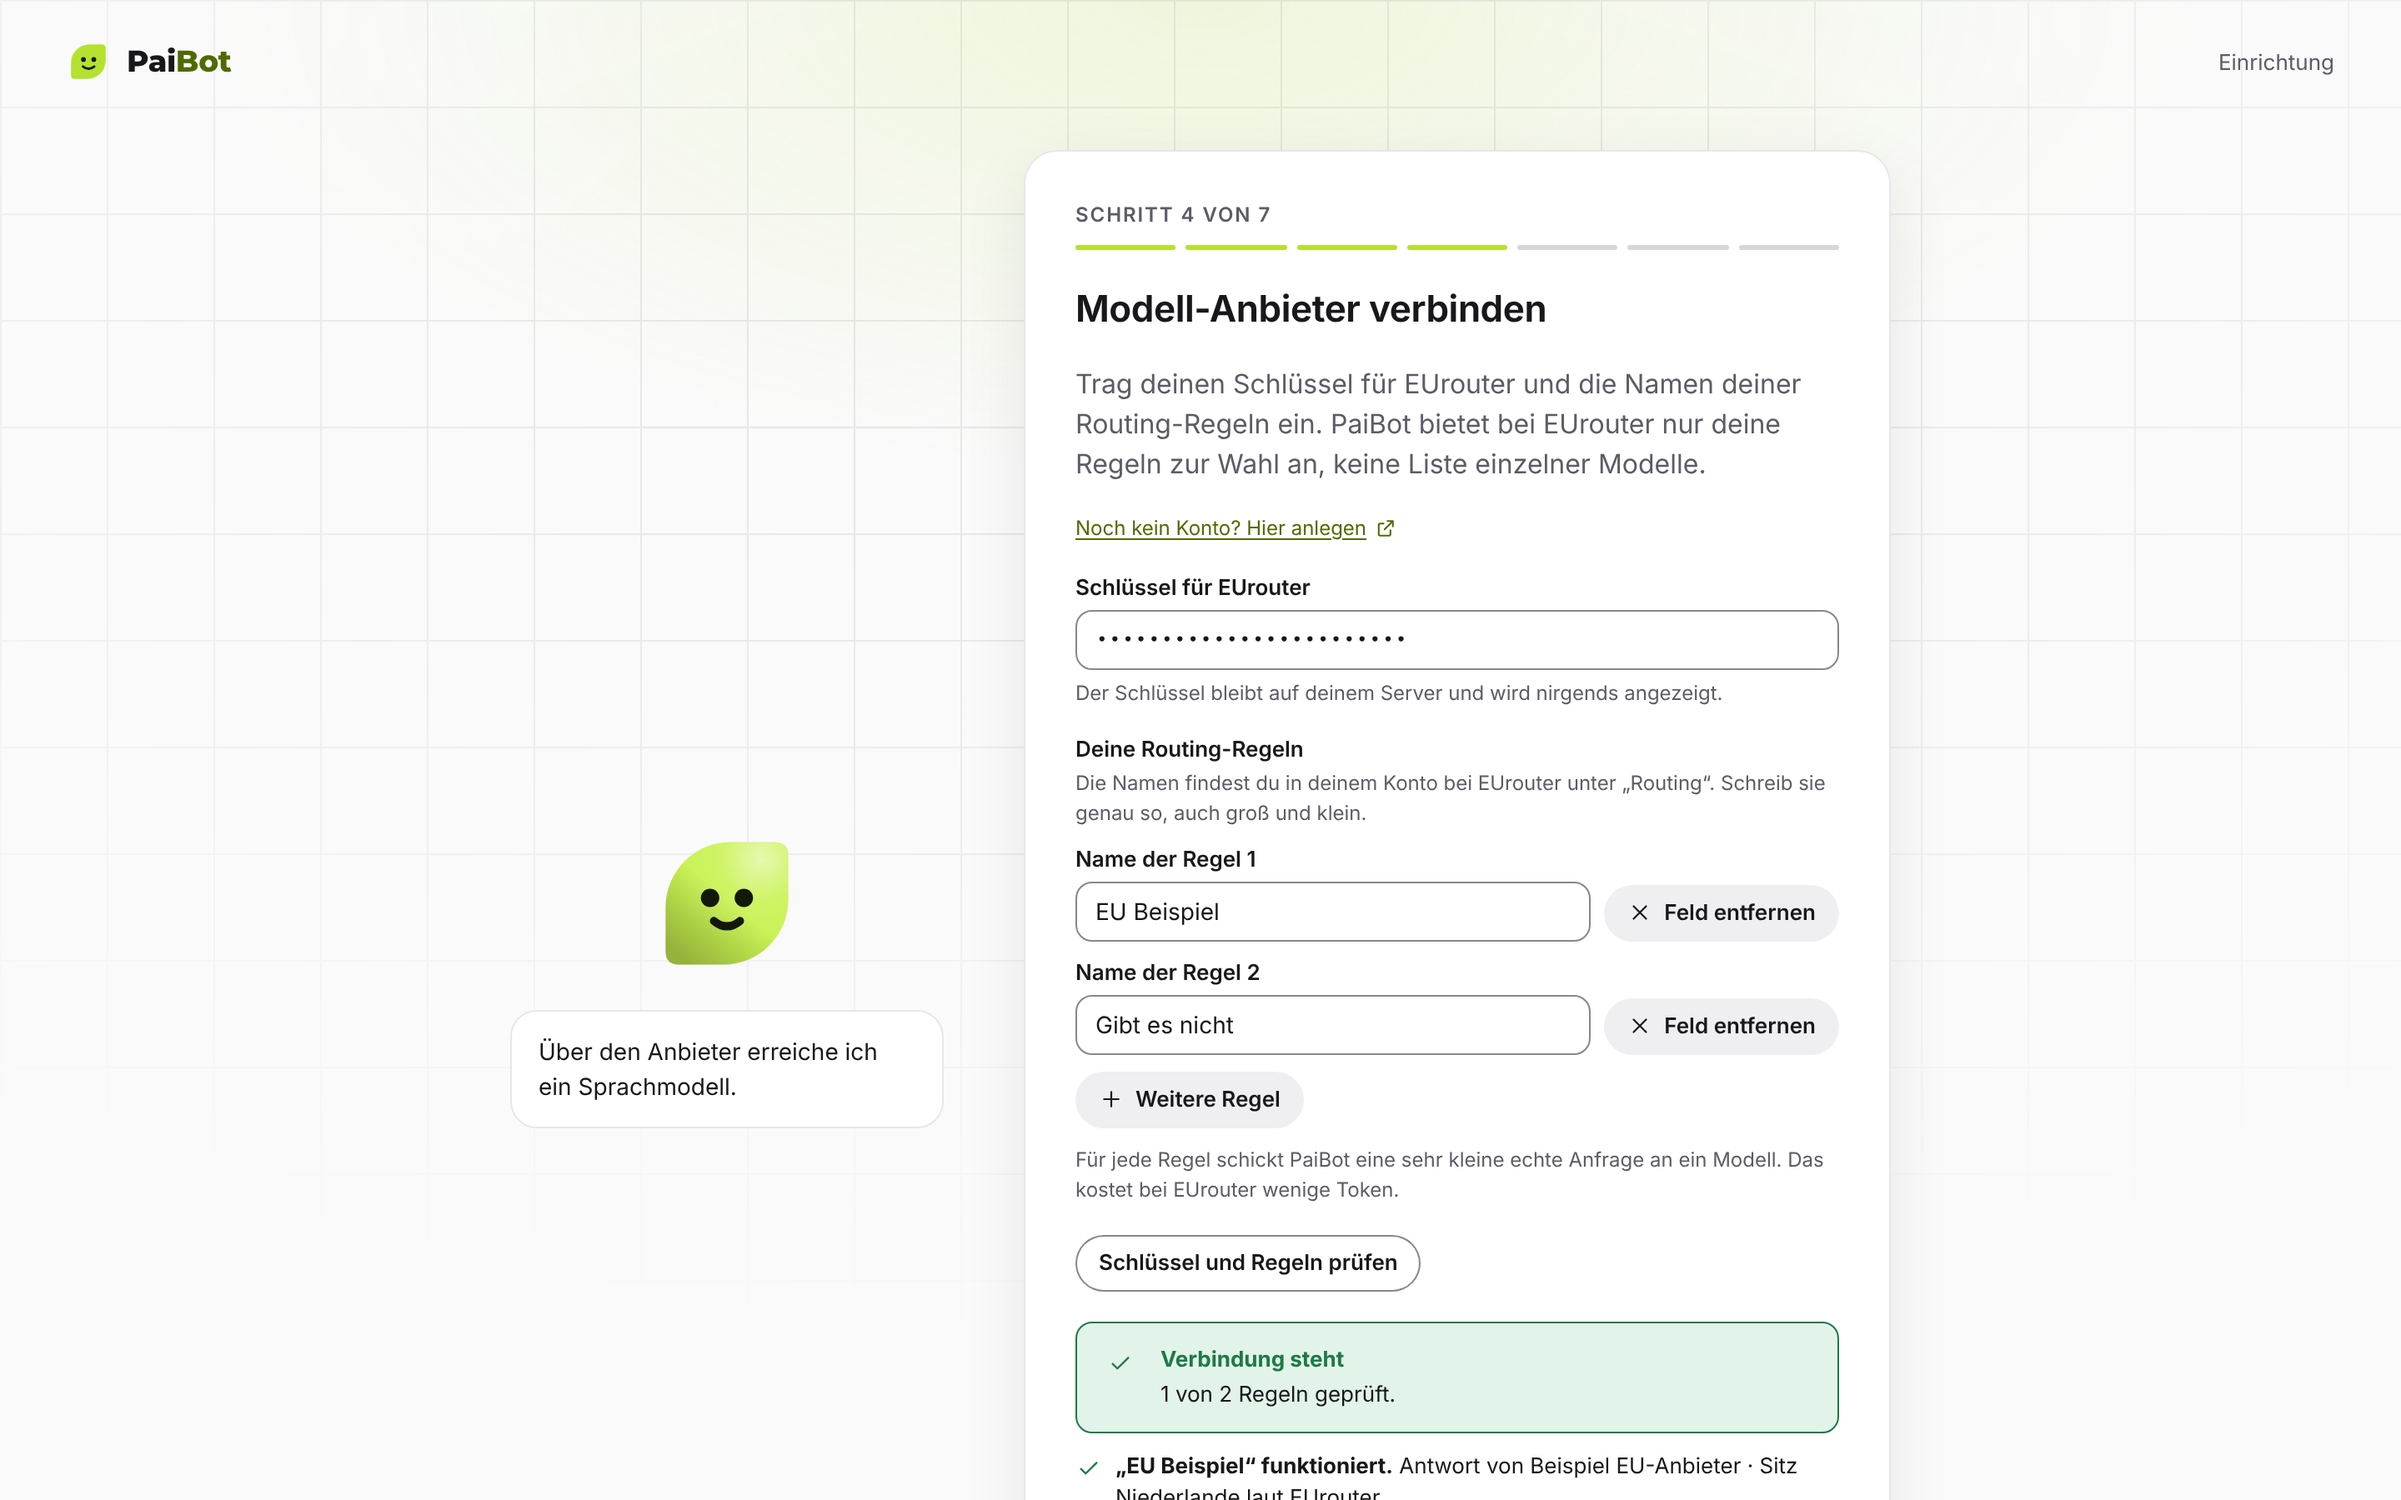
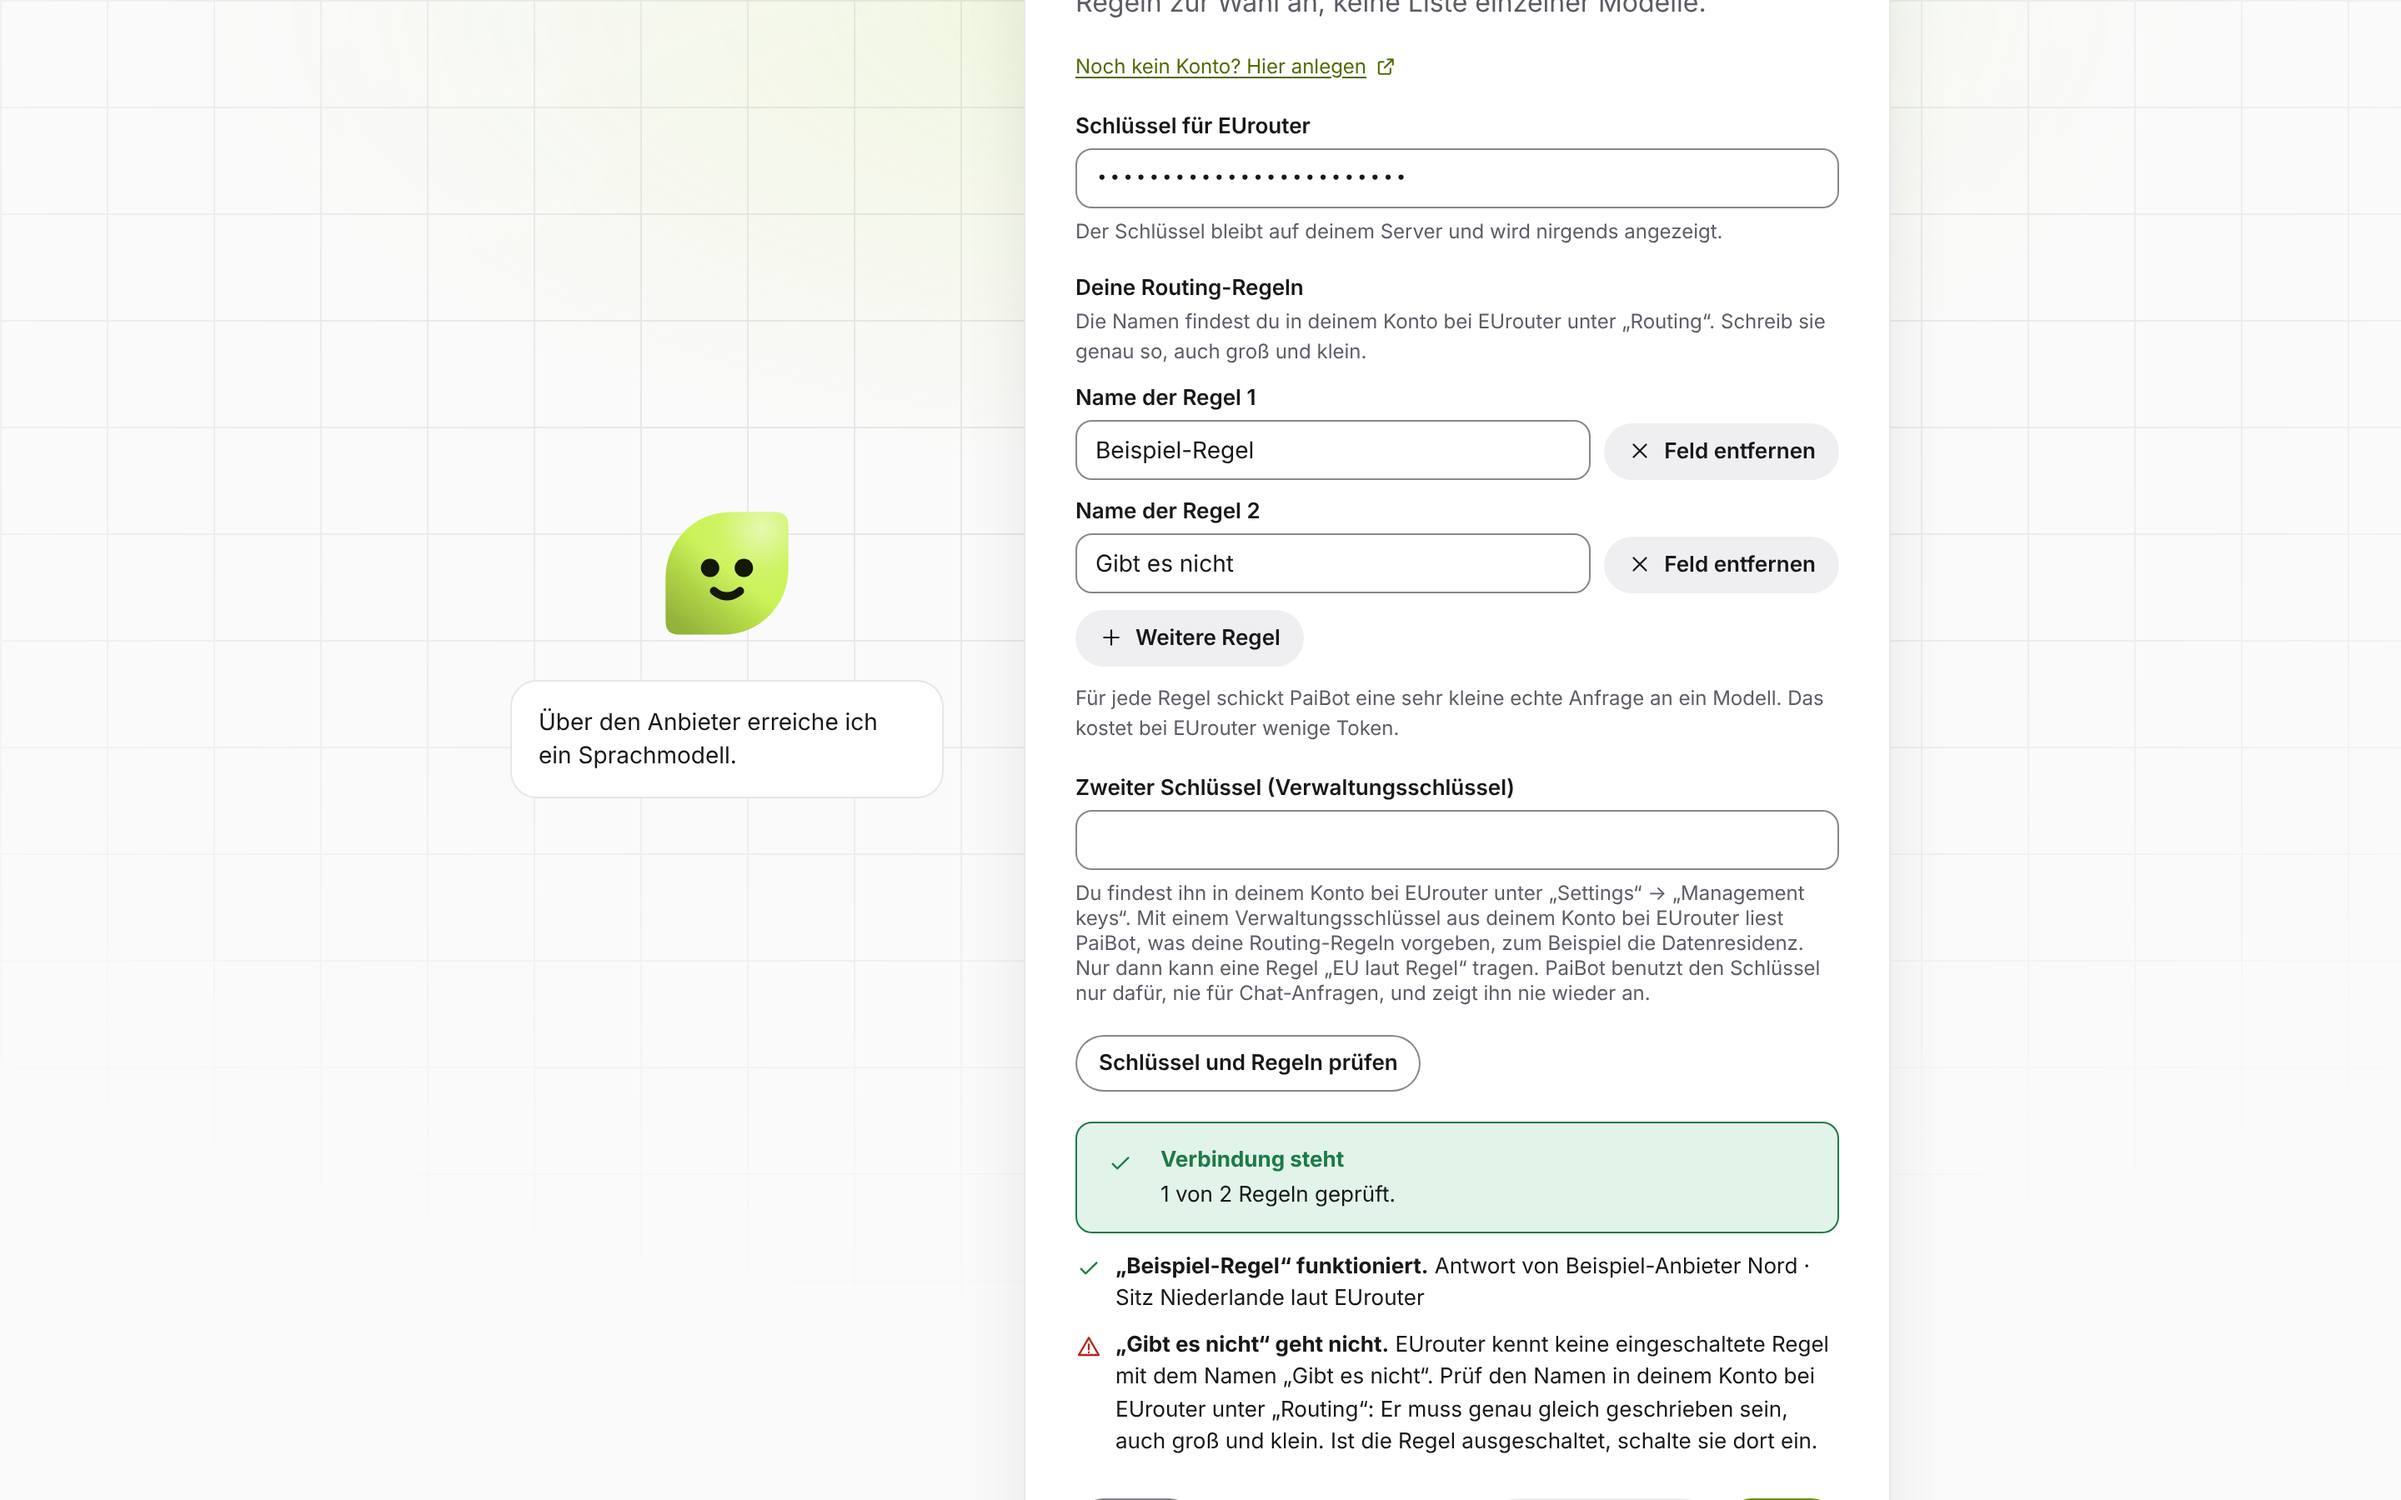
docs(anbieter): Bilder neu aufgenommen, Kennzeichnung vorn in der Antwortzeile, Schritt im Ende-zu-Ende-Lauf (#61)
- neue Bilder zu zweitem Schlüssel, Vorgaben, Chat und Ort „außerhalb der EU“
- Antwortzeile nennt die Kennzeichnung zuerst, damit das Kürzen sie nicht abschneidet
- Knöpfe je Regel stehen nebeneinander; Sätze mit Punkt getrennt
- Ende-zu-Ende: Öffnen der Seite „Modell und Anbieter“ schreibt keine Belege

Claude-Session: https://claude.ai/code/session_01MLo9cAeNc1r994E5agV7ky

diff --git a/apps/web/src/app/(app)/modelle/RegelnKarte.tsx b/apps/web/src/app/(app)/modelle/RegelnKarte.tsx
@@ -198,7 +198,7 @@ export function RegelnKarte(props: RegelnKarteProps) {
       titel: t("regelkarte.ok.titel", { name: neu.name }),
       text: [antwort.daten.herkunft ?? t("regelkarte.ok.ohne_herkunft"), antwort.daten.hinweis]
         .filter(Boolean)
-        .join(" "),
+        .join(". "),
     });
   }
 
@@ -301,24 +301,26 @@ export function RegelnKarte(props: RegelnKarteProps) {
                   <Vorgabe regel={r} anbieter={anbieter.name} />
                 </span>
               </label>
-              {mitSchluessel && (
+              <span className={styles.regelKnoepfe}>
+                {mitSchluessel && (
+                  <Button
+                    art="leise"
+                    onClick={() => void neuPruefen(r)}
+                    laedt={neuLaeuft === r.id}
+                    aria-label={t("verwaltung.neu.eine.label", { name: r.name })}
+                  >
+                    {t("verwaltung.neu.eine")}
+                  </Button>
+                )}
                 <Button
                   art="leise"
-                  onClick={() => void neuPruefen(r)}
-                  laedt={neuLaeuft === r.id}
-                  aria-label={t("verwaltung.neu.eine.label", { name: r.name })}
+                  icon="papierkorb"
+                  onClick={() => void entfernen(r)}
+                  aria-label={t("regelkarte.entfernen.label", { name: r.name })}
                 >
-                  {t("verwaltung.neu.eine")}
+                  {t("regelkarte.entfernen")}
                 </Button>
-              )}
-              <Button
-                art="leise"
-                icon="papierkorb"
-                onClick={() => void entfernen(r)}
-                aria-label={t("regelkarte.entfernen.label", { name: r.name })}
-              >
-                {t("regelkarte.entfernen")}
-              </Button>
+              </span>
             </div>
           ))}
           {alte.map((m) => (

diff --git a/apps/web/src/app/einrichtung/Einrichtung.tsx b/apps/web/src/app/einrichtung/Einrichtung.tsx
@@ -744,7 +744,7 @@ export function Einrichtung({
                                       : t("anbieterwahl.regel.nicht_ok", { name: r.name })}
                                   </strong>{" "}
                                   {r.ok
-                                    ? [r.herkunft, r.vorgabeText].filter(Boolean).join(" ")
+                                    ? [r.herkunft, r.vorgabeText].filter(Boolean).join(". ")
                                     : [r.text, r.ausweg].filter(Boolean).join(" ")}
                                 </span>
                               </li>

diff --git a/apps/web/src/app/(app)/chat/ChatSeite.tsx b/apps/web/src/app/(app)/chat/ChatSeite.tsx
@@ -560,9 +560,10 @@ export function ChatSeite({ bereitschaft, verlauf, stelle }: ChatSeiteProps) {
         </div>
       ) : null;
     }
+    // Die Kennzeichnung steht vorn: Die Zeile kürzt hinten mit „…“.
     const herkunft = [
-      antwortHerkunft(modell.anbieter, n.servedBy, bereitschaft.unterAnbieter),
       ...antwortKurz(modell.vorgabe),
+      antwortHerkunft(modell.anbieter, n.servedBy, bereitschaft.unterAnbieter),
     ]
       .filter((teil): teil is string => teil !== undefined)
       .join(" · ");

diff --git a/apps/web/src/app/(app)/modelle/modelle.module.css b/apps/web/src/app/(app)/modelle/modelle.module.css
@@ -256,3 +256,10 @@
   gap: 4px;
   min-width: 0;
 }
+
+.regelKnoepfe {
+  display: flex;
+  flex-wrap: wrap;
+  gap: 4px;
+  justify-content: flex-end;
+}
